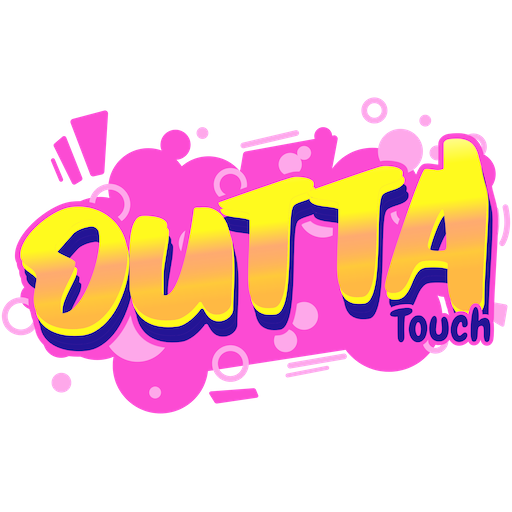
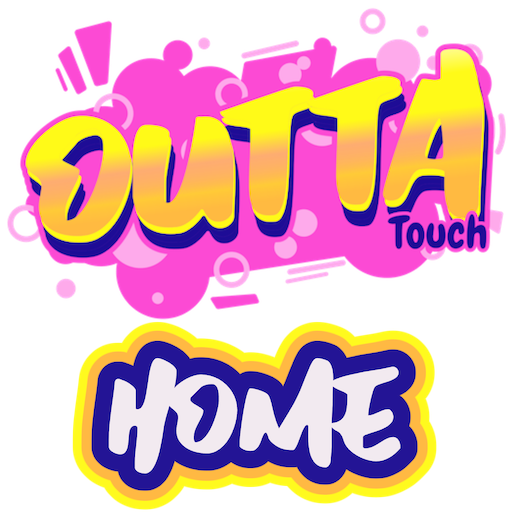
added google fonts, added various styling to NavBar

diff --git a/client/public/index.html b/client/public/index.html
@@ -1,21 +1,24 @@
 <!DOCTYPE html>
 <html lang="en">
-  <head>
-    <meta charset="utf-8" />
-    <link rel="icon" href="%PUBLIC_URL%/favicon.ico" />
-    <meta name="viewport" content="width=device-width, initial-scale=1" />
-    <meta name="theme-color" content="#000000" />
-    <meta
-      name="description"
-      content="Web site created using create-react-app"
-    />
-    <link rel="apple-touch-icon" href="%PUBLIC_URL%/logo192.png" />
-    <!--
+
+<head>
+  <meta charset="utf-8" />
+  <link rel="icon" href="%PUBLIC_URL%/favicon.ico" />
+  <meta name="viewport" content="width=device-width, initial-scale=1" />
+  <meta name="theme-color" content="#000000" />
+  <meta name="description" content="Web site created using create-react-app" />
+  <!-- Google Fonts -->
+  <link rel="preconnect" href="https://fonts.googleapis.com">
+  <link rel="preconnect" href="https://fonts.gstatic.com" crossorigin>
+  <link href="https://fonts.googleapis.com/css2?family=Chewy&display=swap" rel="stylesheet">
+
+  <link rel="apple-touch-icon" href="%PUBLIC_URL%/logo192.png" />
+  <!--
       manifest.json provides metadata used when your web app is installed on a
       user's mobile device or desktop. See https://developers.google.com/web/fundamentals/web-app-manifest/
     -->
-    <link rel="manifest" href="%PUBLIC_URL%/manifest.json" />
-    <!--
+  <link rel="manifest" href="%PUBLIC_URL%/manifest.json" />
+  <!--
       Notice the use of %PUBLIC_URL% in the tags above.
       It will be replaced with the URL of the `public` folder during the build.
       Only files inside the `public` folder can be referenced from the HTML.
@@ -24,12 +27,13 @@
       work correctly both with client-side routing and a non-root public URL.
       Learn how to configure a non-root public URL by running `npm run build`.
     -->
-    <title>Outta Touch</title>
-  </head>
-  <body>
-    <noscript>You need to enable JavaScript to run this app.</noscript>
-    <div id="root"></div>
-    <!--
+  <title>Outta Touch</title>
+</head>
+
+<body>
+  <noscript>You need to enable JavaScript to run this app.</noscript>
+  <div id="root"></div>
+  <!--
       This HTML file is a template.
       If you open it directly in the browser, you will see an empty page.
 
@@ -39,5 +43,6 @@
       To begin the development, run `npm start` or `yarn start`.
       To create a production bundle, use `npm run build` or `yarn build`.
     -->
-  </body>
+</body>
+
 </html>

diff --git a/client/src/components/NavBar/index.js b/client/src/components/NavBar/index.js
@@ -1,10 +1,52 @@
 import React from 'react';
 import { Link } from 'react-router-dom';
 
-const NavBar = () => {
+// bootstrap components
+import Container from 'react-bootstrap/Container';
+import Navbar from 'react-bootstrap/Navbar';
+import Button from 'react-bootstrap/Button';
+
+// import home btn image
+import logo from './assets/img/HomeButtonImage.png';
+
+// import independent styling
+import './assets/css/navbar.css'
+
+const NavBar = (props) => {
     return (
-      <></>
+        <Navbar className='custom-navbar' expand="lg">
+          <button className='home-button'>
+            <img className='nav-logo' src={logo}/>
+          </button>
+          <h1 className='slogan'>{props.slogan}</h1>
+          {props.navToggle}
+      </Navbar>
     )
   };
   
   export default NavBar;
+
+//   TODO: Show this on Dashboard page (needs styling) - props.navToggle
+
+// import Nav from 'react-bootstrap/Nav';
+// import Navbar from 'react-bootstrap/Navbar';
+
+//  <Navbar.Toggle aria-controls="basic-navbar-nav" />
+// <Navbar.Collapse id="basic-navbar-nav">
+// <Nav className="me-auto">
+//   <Nav.Link href="/">Sign Out</Nav.Link>
+// </Nav>
+// </Navbar.Collapse>
+
+// TODO: Show this on Group Chat page (needs styling) - props.navToggle
+
+// import Nav from 'react-bootstrap/Nav';
+// import Navbar from 'react-bootstrap/Navbar';
+
+{/* <Navbar.Toggle aria-controls="basic-navbar-nav" />
+<Navbar.Collapse id="basic-navbar-nav">
+  <Nav className="me-auto">
+    <Nav.Link href="/">Sign Out</Nav.Link>
+    <Nav.Link href="/chat/photos">Group Photos</Nav.Link>
+  </Nav>
+</Navbar.Collapse> */}

diff --git a/client/src/components/NavBar/assets/css/navbar.css b/client/src/components/NavBar/assets/css/navbar.css
@@ -1,0 +1,28 @@
+.custom-navbar {
+    height: 10vh;
+    background-color: var(--Bshade1);
+}
+.home-button {
+    margin-left: 2%;
+    height: 100%;
+    width: inherit;
+    background-color: transparent;
+    border: none;
+    position: relative;
+}
+
+.home-button:hover {
+    background-color: transparent;
+}
+
+.home-button:active {
+    background-color: transparent;
+}
+
+.nav-logo {
+    height: 100%;
+}
+
+.slogan {
+    
+}

diff --git a/client/src/pages/Landing.js b/client/src/pages/Landing.js
@@ -5,13 +5,7 @@ import NavBar from '../components/NavBar';
 const Landing = () => {
   return (
     <main>
-      <NavBar />
-      <Link to='/signup' style={{ textDecoration: 'none' }}>
-        <h1>Sign Up</h1>
-      </Link>
-      <Link to='/login' style={{ textDecoration: 'none' }}>
-        <h1>Log in</h1>
-      </Link>
+      <NavBar slogan='Are You Outta Touch?'/>
     </main>
   )
 };

diff --git a/client/src/index.js b/client/src/index.js
@@ -4,7 +4,8 @@ import App from './App';
 import * as serviceWorkerRegistration from './serviceWorkerRegistration';
 import reportWebVitals from './reportWebVitals';
 
-// main App css import
+// main App css import & bootstrap CSS
+import 'bootstrap/dist/css/bootstrap.min.css';
 import './App.css';
 
 

diff --git a/client/src/App.css b/client/src/App.css
@@ -41,4 +41,5 @@
     --Bshade4: #1C107A;
 
     /** Font Variables */
+    
 }
